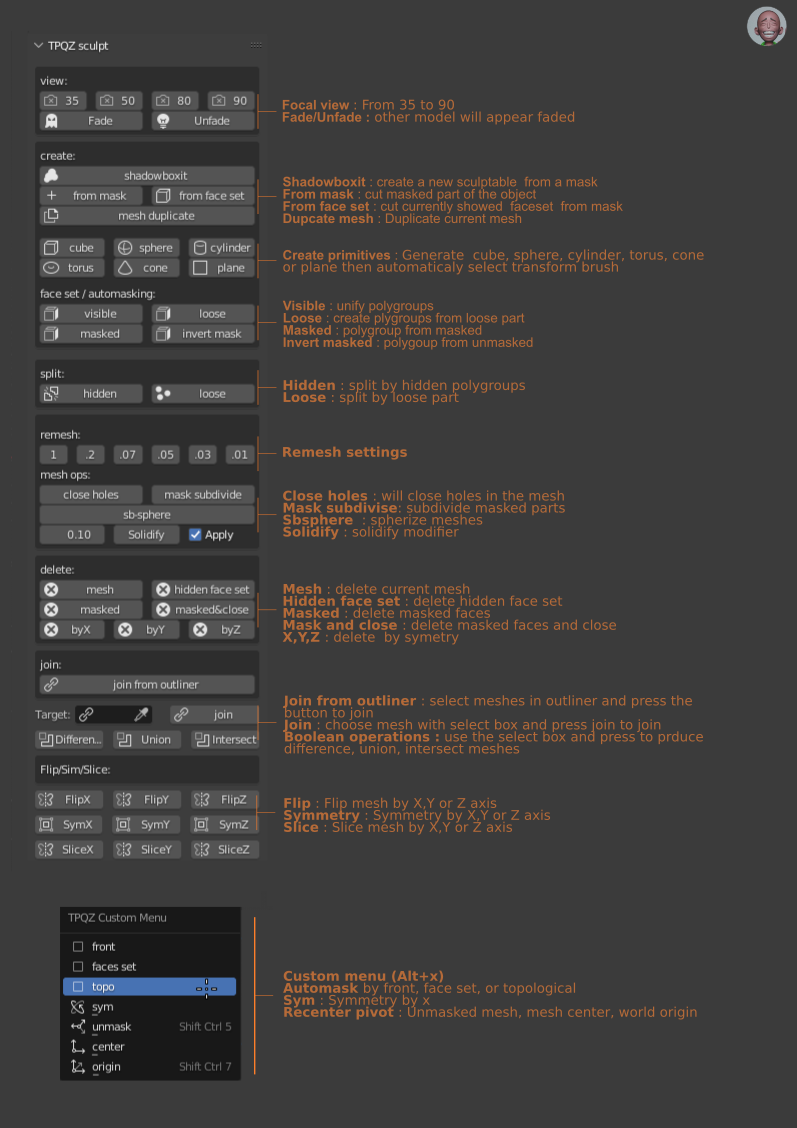
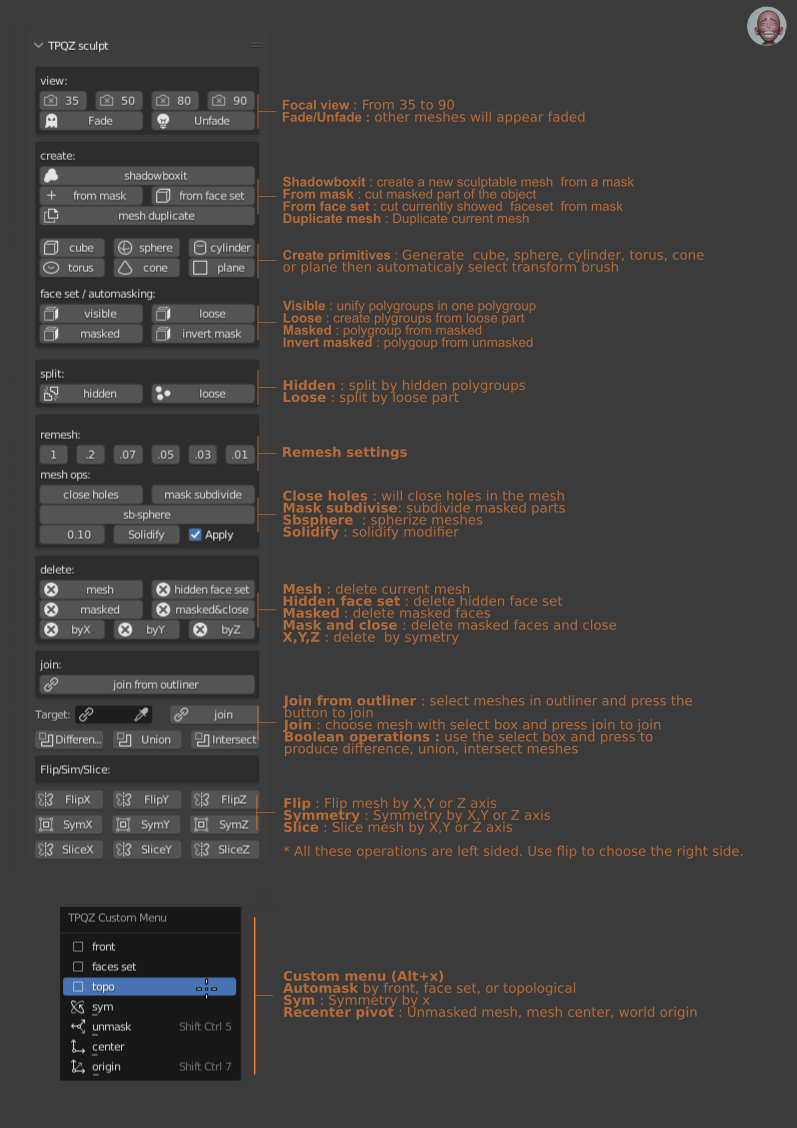
readme and doc corrections

diff --git a/README.md b/README.md
@@ -2,14 +2,17 @@
 Workflow plugin for Blender sculpt mode.
 ![doc2 doc](manual/doc2.png?raw=true "doc2.doc")
 ### ESSENTIAL SHORTCUTS
-Make your life easier and create shortcut the most used brushes :
+Make your life easier and create shortcuts for the brushes you are using often :
 
     - modeling brushes (set for me to alt+ 0-9 )
     - masking (fill, remove mask)
     - object properties->viewport display->wireframe (will be set in the plugin on the next version)
     - transformation brushes (move (set for me to 1), scale (set for me to 2), rotate (set for me to 3))
+    - line project, box trim (set for me to 4 & 5 )
+    - Face sets
+    - colors/ (fill)
 
-A shortcut is created at installation to alt+X to show the custom menu. 
+A shortcut is created at the plugin installation to alt+X to show the custom menu.
 
 Shortcut  wireframe
 create shortcut to object properies wireframe
